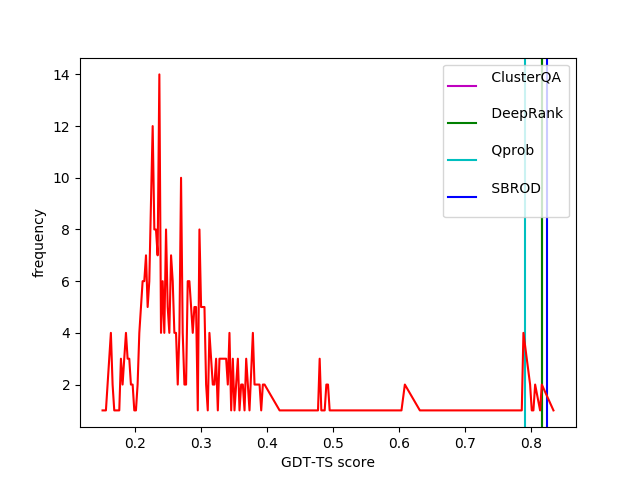
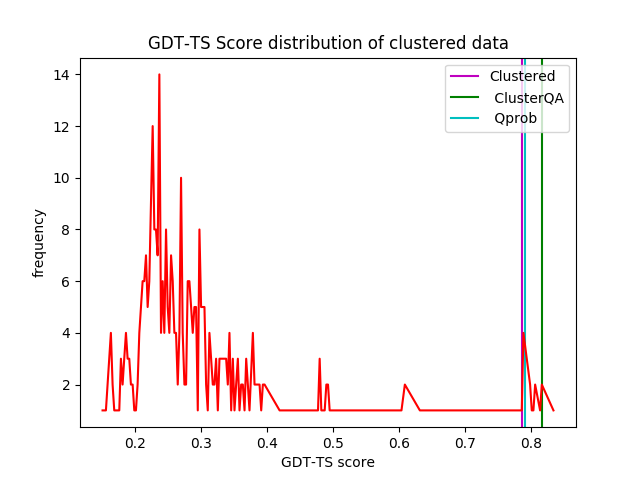
updating files

diff --git a/distribution.py b/distribution.py
@@ -26,8 +26,8 @@ for l in data:
 		line = l.split('\t')
 		GTS = float(line[3])
 		TM = float(line[2])
-		GTStext = ("%.2f" %(GTS))
-		TMtext = ("%.2f" %(TM))
+		GTStext = ("%.4f" %(GTS))
+		TMtext = ("%.4f" %(TM))
 		tm.append(TM)
 		gts.append(GTS)
 		if GTStext in GTSdict:
@@ -66,23 +66,31 @@ read.close()
 gtsScores = []
 tmScores = []
 methods = []
-first = True
+methodNum = 0
 for i in range(len(lines)):
 	line = lines[i]
 	if "Top" in line:
-		if first:
-			first = False
+		methodNum +=1
+		if methodNum != 1 and methodNum  != 2 and methodNum != 4:
 			continue
 		method = line[line.rfind(' '):]
+		if 'clusters' in method:
+			method = "Clustered"
+                if '\n' in method:
+                        method = method[:method.rfind('/')]		
+ 
 		methods.append(method)
 		gdt_ts = lines[i+2]	
 		tm_score = lines[i+3]
 		gtsScores.append(float(gdt_ts[gdt_ts.rfind('=')+2:]))
 		tmScores.append(float(tm_score[tm_score.rfind('=')+2:]))
+methods = ['Clustered','DeepCluster_QA','Qprob']
 plt.cla()
 plt.figure()
+plt.title('GDT-TS Score distribution of unclustered data')
 plt.xlabel('GDT-TS score')
 plt.ylabel('frequency')
+plt.xlim(0,1)
 for i in range(len(gtsScores)):
 	plt.axvline(x=float(gtsScores[i]),label = methods[i],color = colors[i])
 plt.plot(GTSx,GTSy,'r')
@@ -92,10 +100,12 @@ plt.cla()
 plt.figure()
 for i in range(len(tmScores)):
         plt.axvline(x=float(tmScores[i]),color = colors[i], label = methods[i])
-plt.xlabel('GDT-TM score')
+plt.xlabel('TM score')
+plt.title('TM-Score distribution of unclustered data')
 plt.ylabel('frequency')
 plt.plot(TMx,TMy,'r')
 plt.legend(loc='upper right')
+plt.xlim(0,1)
 plt.savefig(resFolder+name+'TM.png', format = 'png')
 
 print(count)

diff --git a/oldVersions/rankvsscore.py b/oldVersions/rankvsscore.py
@@ -1,0 +1,71 @@
+import sys
+import matplotlib 
+matplotlib.use('Agg')
+import  matplotlib.pyplot as plt
+scoreFile = sys.argv[1]
+results = sys.argv[2]
+name = sys.argv[3]
+target = sys.argv[4]
+scores = sys.argv[5]
+colors = ['m',  'g','c', 'b', 'y', 'k', ]
+read = open(scores, 'r')
+lines = read.readlines()
+read.close()
+methodNum = 0
+topMods = []
+modNums = [0]*3
+for i in range(len(lines)):
+        line = lines[i]
+        if "Top" in line:
+                methodNum +=1
+                if methodNum != 1 and methodNum  != 2 and methodNum != 4:
+                        continue
+		mod = lines[i+1]
+		mod = mod[:mod.rfind('\n')]
+		topMods.append(mod)
+
+
+o = open(scoreFile, 'r')
+data = o.readlines()
+o.close()
+dict = {}
+for i in range(len(data)):
+        l = data[i]
+	num = (l[l.find('model_'):l.find('\t')])
+	dict[num] = [i+1]
+	for j in range(len(topMods)):
+		if topMods[j] == num:
+			modNums[j] = i+1
+		
+		
+o = open(results,'r')
+data = o.readlines()
+o.close()
+for l in data:
+	try:
+		num = (l[l.find('model_'):l.find('\t')])
+		line = l.split('\t')
+		GTS = float(line[3])
+		if num in dict:
+			dict[num] = [dict[num][0],GTS]
+	except:
+		continue
+X = []
+Y = []
+for k in dict.keys():
+	X.append(dict[k][0])
+	Y.append(dict[k][1])
+
+	
+methods = ['Clustered','DeepCluster_QA','Qprob']
+
+
+plt.cla()
+plt.plot(X,Y, 'r.')
+for i in range(len(topMods)-1):
+	plt.axvline(x=int(modNums[i]),color = colors[i], label = methods[i])
+plt.legend(loc = 'upper right')
+plt.xlabel('DeepCluster_QA ranking')
+plt.title('DeepCluster_QA ranking vs. GDT-TS Scores of '+target+' models')
+plt.ylabel('GDT-TS Score')
+plt.savefig(name+'rankingVSGDT_TS.png', format = 'png')

diff --git a/clusteredDistribution.py b/clusteredDistribution.py
@@ -88,22 +88,30 @@ read.close()
 gtsScores = []
 tmScores = []
 methods = []
-first = True
+methodNum=0
 for i in range(len(lines)):
 	line = lines[i]
 	if "Top" in line:
-		if first:
-			first = False
-			continue
+                methodNum +=1
+                if methodNum != 1 and methodNum  != 2 and methodNum != 4:
+                        continue
+		
 		method = line[line.rfind(' '):]
+		if 'clusters' in method:
+			method = "Clustered"
+		if '\n' in method:
+			method = method[:method.rfind('/')]
 		methods.append(method)
 		gdt_ts = lines[i+2]	
 		tm_score = lines[i+3]
 		gtsScores.append(float(gdt_ts[gdt_ts.rfind('=')+2:]))
 		tmScores.append(float(tm_score[tm_score.rfind('=')+2:]))
+methods = ['Clustered','DeepCluster_QA','Qprob']
 plt.cla()
 plt.figure()
+plt.xlim(0,1)
 plt.xlabel('GDT-TS score')
+plt.title('GDT-TS Score distribution of clustered data')
 plt.ylabel('frequency')
 for i in range(len(gtsScores)):
 	plt.axvline(x=float(gtsScores[i]),color = colors[i], label = methods[i])
@@ -114,7 +122,9 @@ plt.cla()
 plt.figure()
 for i in range(len(tmScores)):
 	plt.axvline(x=float(tmScores[i]),color = colors[i], label = methods[i])
-plt.xlabel('GDT-TM score')
+plt.xlabel('TM score')
+plt.xlim(0,1)
+plt.title('TM-Score distribution of clustered data')
 plt.ylabel('frequency')
 plt.plot(TMx,TMy,'r')
 plt.legend(loc='upper right')

diff --git a/plot_clusterQA_cluster.py b/plot_clusterQA_cluster.py
@@ -1,0 +1,23 @@
+import numpy as np
+import matplotlib 
+matplotlib.use('Agg')
+import  matplotlib.pyplot as plt
+X = [0.8536,0.6321,0.7373,0.4127,0.8689,0.9189,0.7854,0.8806,0.2419,0.7917,0.9596,0.5457]
+Y = [0.6536,0.6368,0.7813,0.5060,0.5615,0.9291,0.8157,0.8396,0.4960,0.7500,0.9743,0.6774]
+x = [0,1]
+y = [0,1]
+plt.cla()
+plt.plot(x,y,'b')
+plt.plot(X,Y, 'r.')
+plt.xlabel('Clustered')
+plt.ylabel('ClusterQA')
+plt.savefig('/home/elaine/KerasModel/ClusteredvsClusterQA.png', format = 'png')
+X = [0.8536,0.6321,0.7373,0.5934,0.8689,0.7854,0.3266,0.7879,0.9596,0.6586]
+Y = [0.7107,0.6368,0.7969,0.5934,0.9467,0.8157,0.4960,0.7765,0.9743,0.6774]
+
+plt.cla()
+plt.plot(x,y,'b')
+plt.plot(X,Y, 'r.')
+plt.xlabel('Clustered')
+plt.ylabel('ClusterQA')
+plt.savefig('/home/elaine/KerasModel/ClusteredvsClusterQA5.png', format = 'png')

diff --git a/eval_feats_bar_graph.py b/eval_feats_bar_graph.py
@@ -41,7 +41,8 @@ for line in data:
 		continue		
 	dataset.append(line.split(' '))
 features = len(dataset[0])-2
-
+print(labels)
+labels[len(labels)-1] = "21:DeepCluster_QA"
 X = []
 Y = []
 for i in range(len(dataset)):
@@ -152,11 +153,17 @@ for i in range(len(labels)):
 	if "feature_" in s:
 		s = s[s.rfind('feature_')+8:]
 	labels[i] = s
-
 i = np.arange(len(labels))
 resFolder = sys.argv[2]
 if resFolder.rfind('/') != len(resFolder)-1:
 	resFolder = resFolder+'/'
+print(avgC)
+print(avgL)
+for c in range(len(avgC)):
+	if avgL[c] <0:
+		avgL[c] = 0
+	if avgC[c] <0:
+		avgC[c] = 0
 plt.cla()
 plt.bar(i,avgL)
 plt.xlabel('Features', fontsize = 5)
